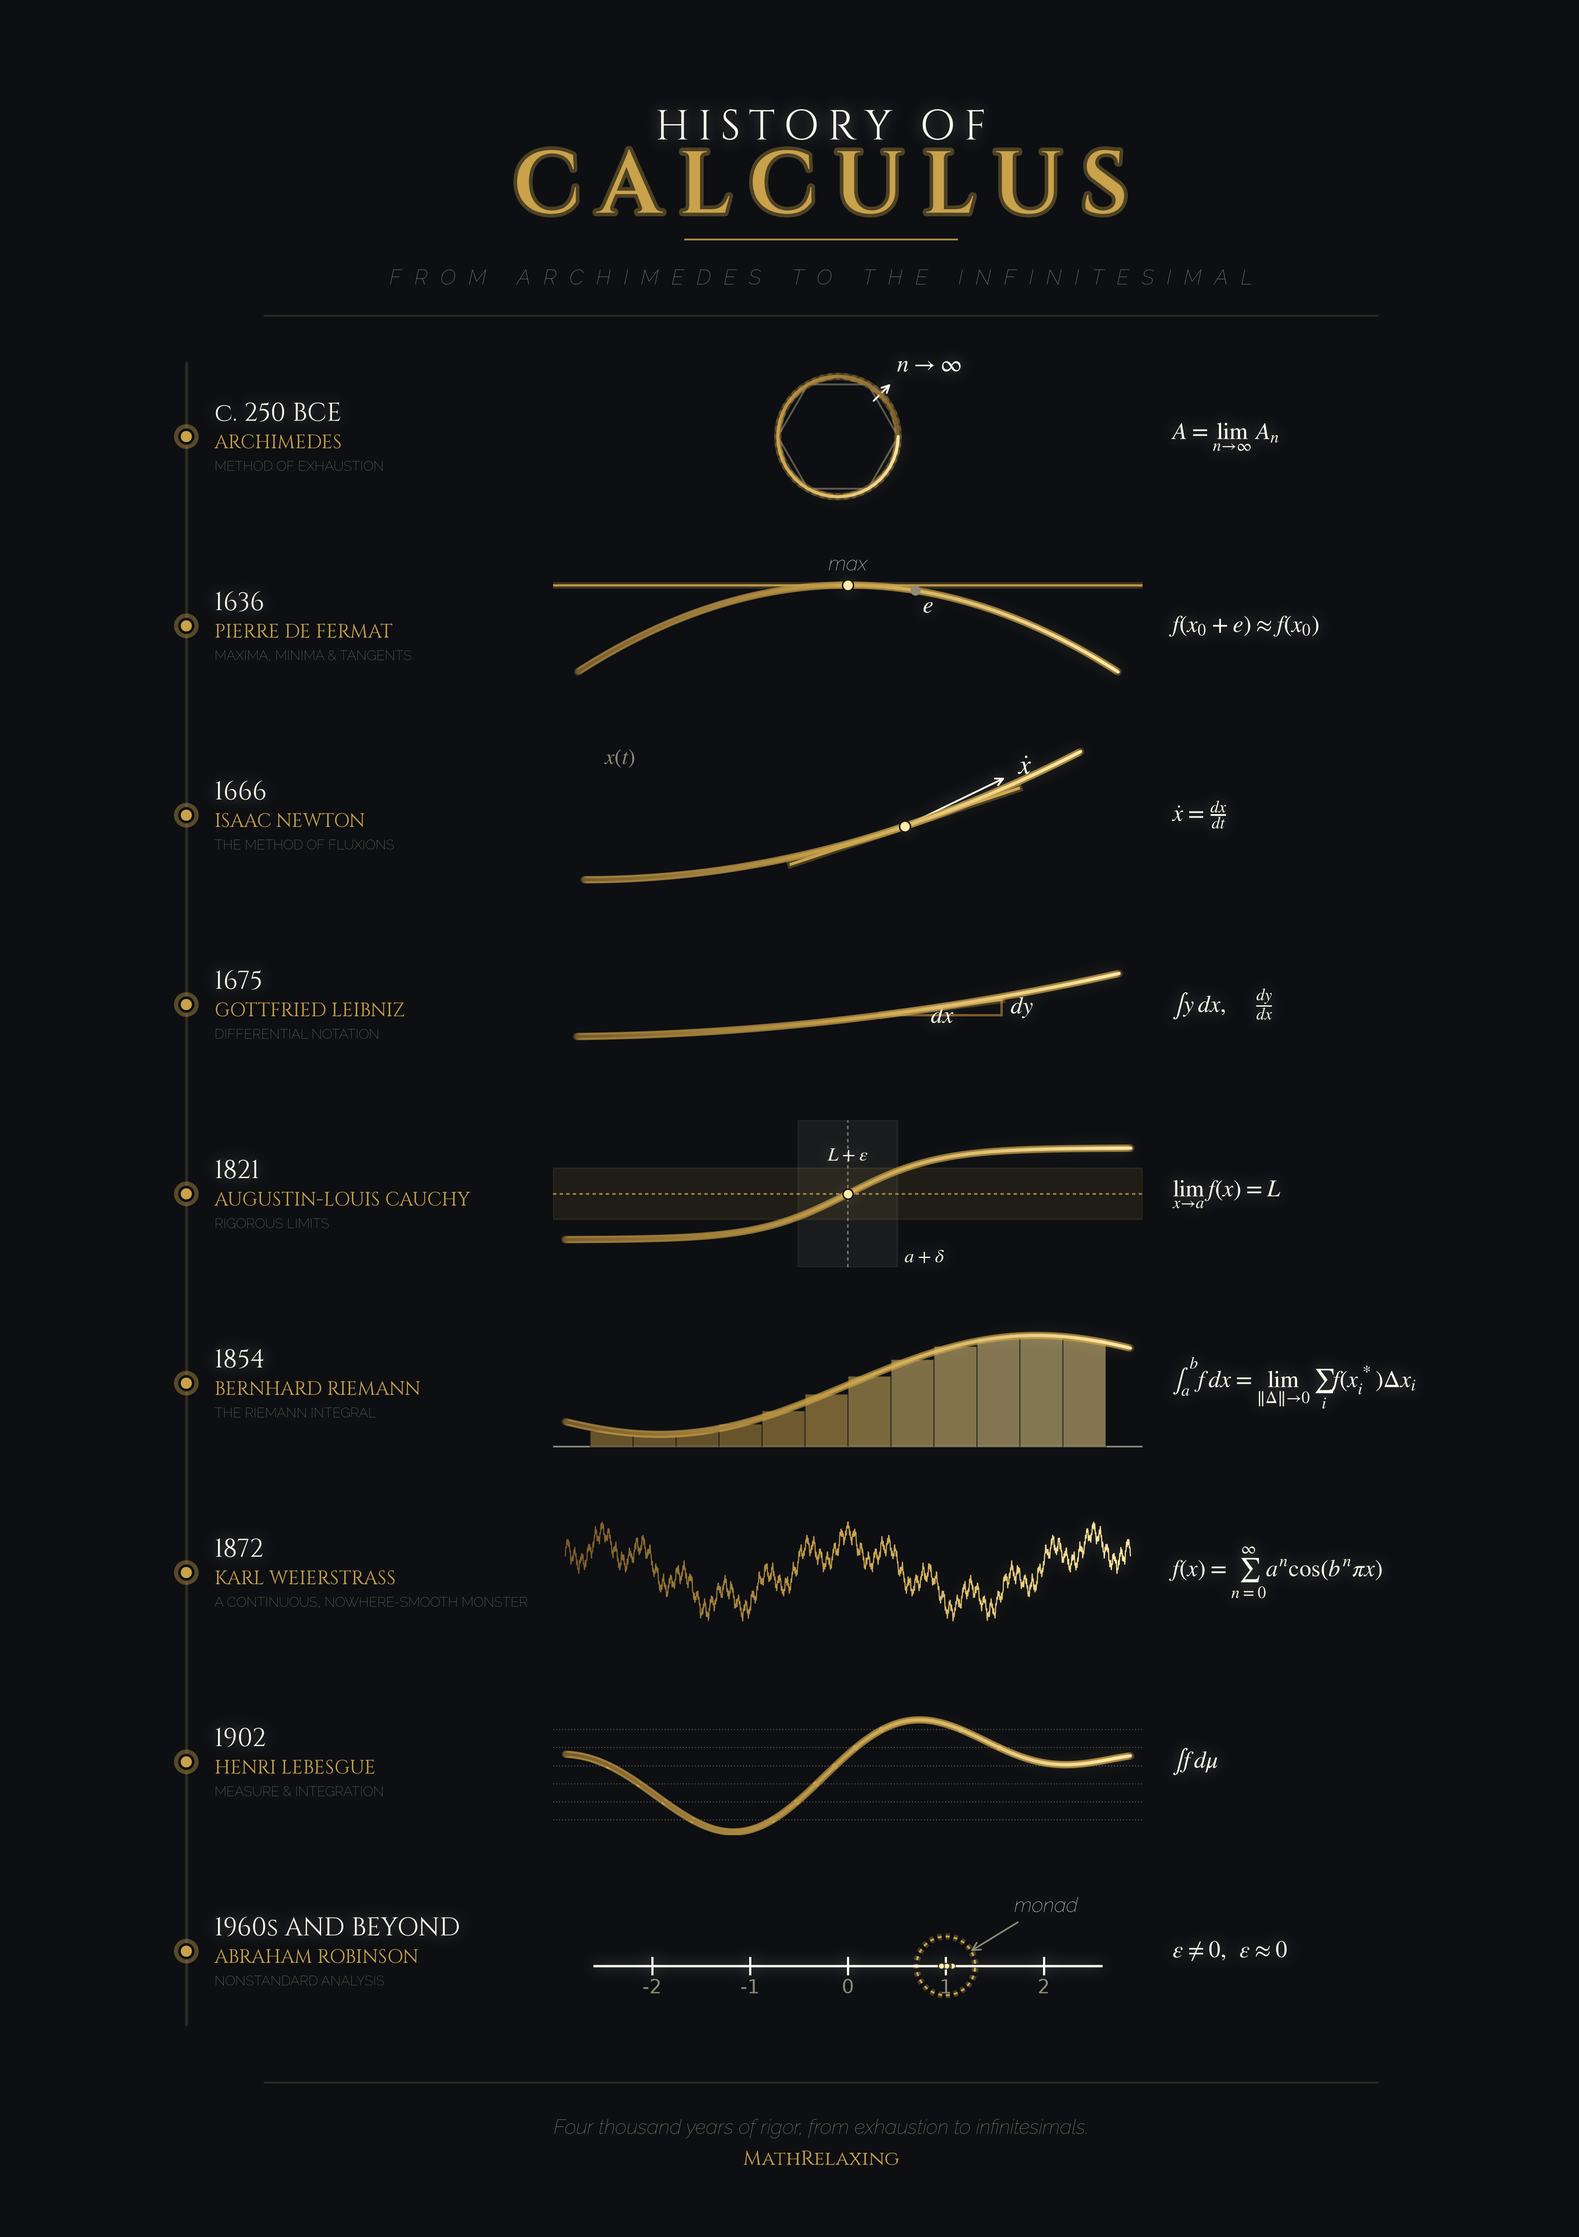
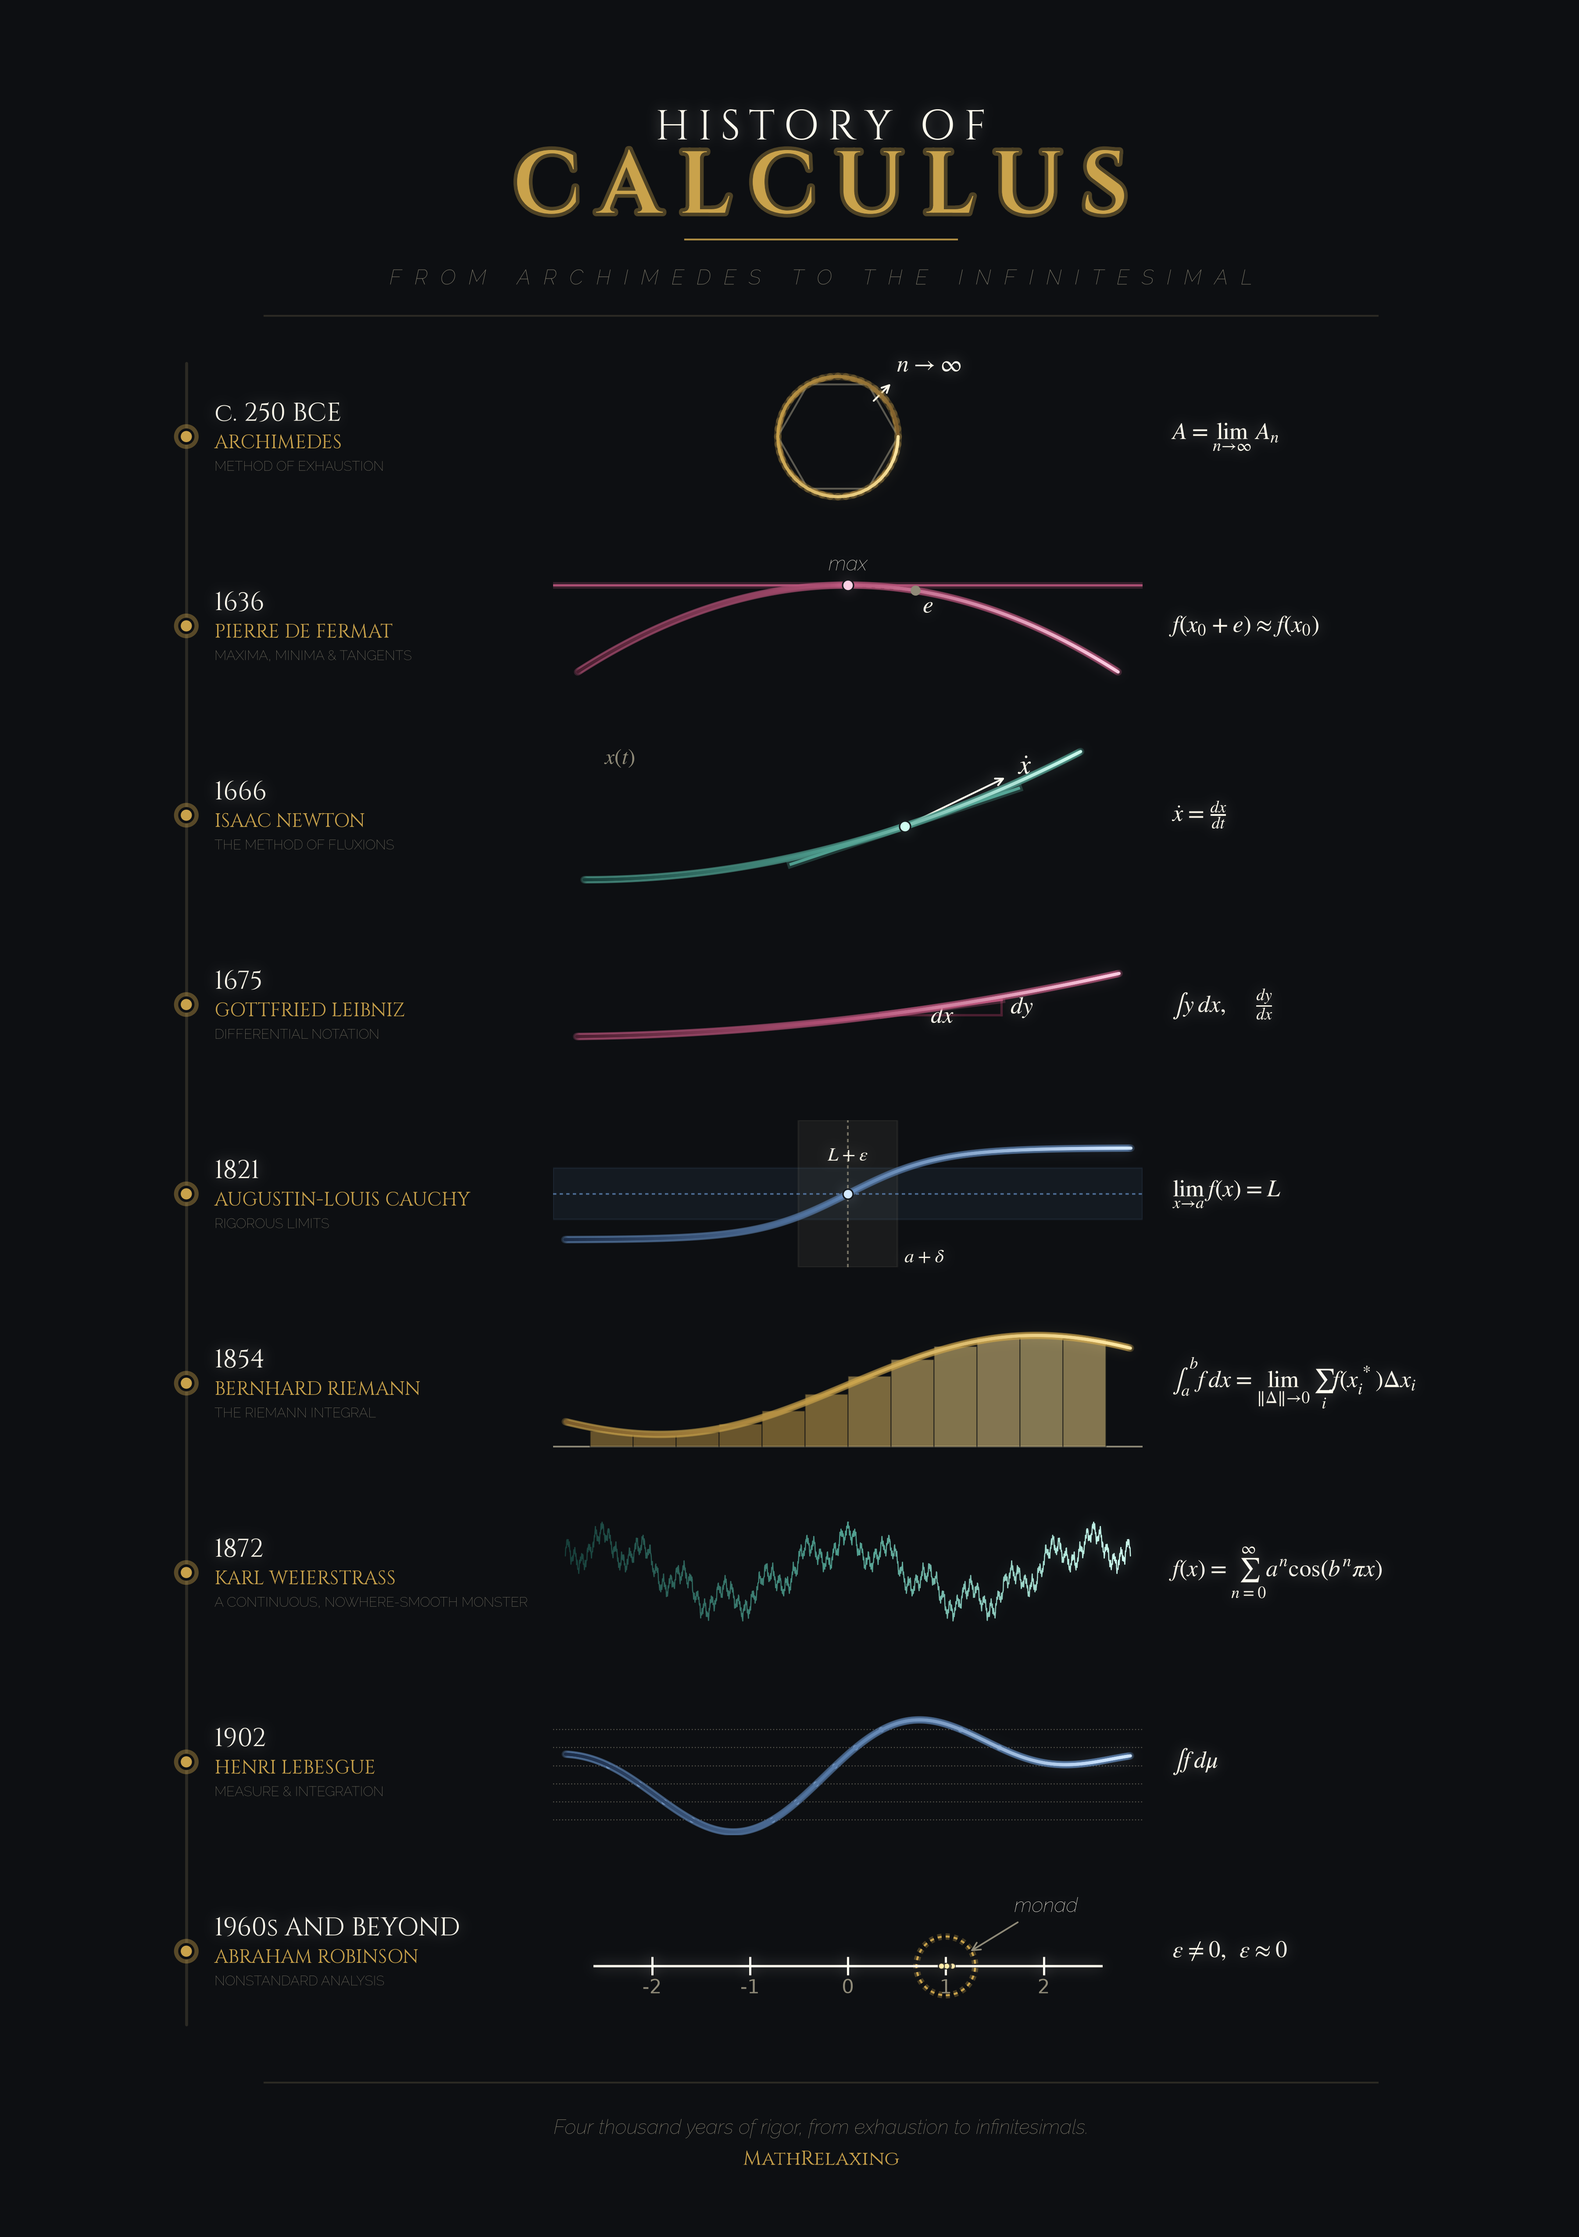
Vary diagram accent colors per milestone in the History of Calculus poster
All nine diagrams were gold-on-gold; added rose, teal and blue gradient
palettes (PALETTES dict) alongside gold, keyed per milestone so no two
adjacent rows repeat, while title/timeline/names stay gold for cohesion.
Each draw_* function now takes a pal argument instead of hardcoding
GOLD/GOLD_HI/BRONZE.

Note: this regenerates the master preview PNG only -- the print exports,
zip, and live Etsy draft (4549027221) still reflect the previous
all-gold version pending sign-off on this look.

Claude-Session: https://claude.ai/code/session_01H2HkvfGi1sYBsuUMaK5vgt

diff --git a/generate_history_poster.py b/generate_history_poster.py
@@ -45,6 +45,18 @@ plt.rcParams.update({"mathtext.fontset": "stix", "axes.unicode_minus": False})
 
 GOLD_CMAP = LinearSegmentedColormap.from_list("gold", [BRONZE, GOLD, GOLD_HI])
 
+# Per-milestone accent palettes -- structural elements (title, timeline, names)
+# stay gold throughout; only the diagram linework varies row to row.
+PALETTES = {
+    "gold": dict(cmap=GOLD_CMAP, mid=GOLD, hi=GOLD_HI, deep=BRONZE),
+    "rose": dict(cmap=LinearSegmentedColormap.from_list("rose", ["#4a1f30", "#b8547a", "#f0c4d8"]),
+                 mid="#b8547a", hi="#f0c4d8", deep="#4a1f30"),
+    "teal": dict(cmap=LinearSegmentedColormap.from_list("teal", ["#173f3a", "#4f9e8f", "#c3ede2"]),
+                 mid="#4f9e8f", hi="#c3ede2", deep="#173f3a"),
+    "blue": dict(cmap=LinearSegmentedColormap.from_list("blue", ["#1c2c47", "#5a7fae", "#c8ddf5"]),
+                 mid="#5a7fae", hi="#c8ddf5", deep="#1c2c47"),
+}
+
 W, H = 12.0, 17.0
 DPI = 300
 
@@ -57,54 +69,54 @@ def tracked(s, thin=1):
     return (" " * thin).join(s)
 
 
-def grad_line(ax, x, y, cmap=GOLD_CMAP, lw=1.9, alpha=1.0, zorder=4, glow=True):
+def grad_line(ax, x, y, cmap=GOLD_CMAP, lw=1.9, alpha=1.0, zorder=4, glow=True, glow_color=None):
     pts = np.array([x, y]).T.reshape(-1, 1, 2)
     segs = np.concatenate([pts[:-1], pts[1:]], axis=1)
     lc = LineCollection(segs, cmap=cmap, alpha=alpha, linewidths=lw, zorder=zorder,
                          capstyle="round")
     lc.set_array(np.linspace(0, 1, len(x)))
     if glow:
-        lc.set_path_effects(GLOW(lw=lw, c=GOLD, a=0.25))
+        lc.set_path_effects(GLOW(lw=lw, c=glow_color or GOLD, a=0.25))
     ax.add_collection(lc)
 
 
 # ---------------------------------------------------------------- diagrams
-def draw_archimedes(ax):
+def draw_archimedes(ax, pal=PALETTES["gold"]):
     th = np.linspace(0, 2 * np.pi, 200)
     ax.plot(np.cos(th), np.sin(th), color=SUB, lw=1.0, ls=(0, (1, 2)), alpha=0.7)
-    for n, col, a, lw in [(6, SUB, 0.6, 1.0), (12, BRONZE, 0.85, 1.2)]:
+    for n, col, a, lw in [(6, SUB, 0.6, 1.0), (12, pal["deep"], 0.85, 1.2)]:
         ang = np.linspace(0, 2 * np.pi, n + 1)
         ax.plot(np.cos(ang), np.sin(ang), color=col, lw=lw, alpha=a)
     ang = np.linspace(0, 2 * np.pi, 49)
-    grad_line(ax, np.cos(ang), np.sin(ang), lw=1.7)
+    grad_line(ax, np.cos(ang), np.sin(ang), cmap=pal["cmap"], lw=1.7, glow_color=pal["mid"])
     ax.annotate("", xy=(0.92, 0.92), xytext=(0.55, 0.55),
                 arrowprops=dict(arrowstyle="->", color=CREAM, lw=1.0))
     ax.text(0.98, 0.98, r"$n\to\infty$", fontsize=13, color=CREAM, ha="left", va="bottom")
     ax.set_xlim(-1.22, 1.55); ax.set_ylim(-1.22, 1.22); ax.set_aspect("equal"); ax.axis("off")
 
 
-def draw_fermat(ax):
+def draw_fermat(ax, pal=PALETTES["gold"]):
     x = np.linspace(-2.2, 2.2, 400)
     y = -0.22 * x**2 + 1.1
-    grad_line(ax, x, y, lw=1.7)
-    ax.axhline(1.1, color=GOLD, lw=1.2, alpha=0.9, path_effects=GLOW(lw=1.2, a=0.25))
+    grad_line(ax, x, y, cmap=pal["cmap"], lw=1.7, glow_color=pal["mid"])
+    ax.axhline(1.1, color=pal["mid"], lw=1.2, alpha=0.9, path_effects=GLOW(lw=1.2, c=pal["mid"], a=0.25))
     e = 0.55
     ax.plot([0, e], [1.1, 1.1 - 0.22 * e**2], color=SUB, lw=1.0, ls=(0, (3, 2)))
-    ax.plot([0], [1.1], "o", color=GOLD_HI, ms=6, zorder=5, mec=DARK, mew=0.8)
+    ax.plot([0], [1.1], "o", color=pal["hi"], ms=6, zorder=5, mec=DARK, mew=0.8)
     ax.plot([e], [1.1 - 0.22 * e**2], "o", color=SUB, ms=4.5, zorder=5)
     ax.text(0, 1.28, "max", fontsize=11, color=CREAM, ha="center", fontproperties=RALEWAY_I)
     ax.text(e + 0.06, 1.1 - 0.22 * e**2 - 0.05, "$e$", fontsize=13, color=CREAM, ha="left", va="top")
     ax.set_xlim(-2.4, 2.4); ax.set_ylim(-0.3, 1.5); ax.axis("off")
 
 
-def draw_newton(ax):
+def draw_newton(ax, pal=PALETTES["gold"]):
     t = np.linspace(0, 2.4, 400)
     x = 0.5 * t**2
-    grad_line(ax, t, x, lw=1.7)
+    grad_line(ax, t, x, cmap=pal["cmap"], lw=1.7, glow_color=pal["mid"])
     t0 = 1.55; x0 = 0.5 * t0**2; slope = t0
     tt = np.linspace(t0 - 0.55, t0 + 0.55, 2)
-    ax.plot(tt, x0 + slope * (tt - t0), color=GOLD, lw=1.6, path_effects=GLOW())
-    ax.plot([t0], [x0], "o", color=GOLD_HI, ms=6, zorder=5, mec=DARK, mew=0.8)
+    ax.plot(tt, x0 + slope * (tt - t0), color=pal["mid"], lw=1.6, path_effects=GLOW(c=pal["mid"]))
+    ax.plot([t0], [x0], "o", color=pal["hi"], ms=6, zorder=5, mec=DARK, mew=0.8)
     ax.annotate("", xy=(t0 + 0.5, x0 + slope * 0.5 + 0.35), xytext=(t0, x0),
                 arrowprops=dict(arrowstyle="->", color=CREAM, lw=1.0))
     ax.text(t0 + 0.55, x0 + slope * 0.5 + 0.4, r"$\dot{x}$", fontsize=15, color=CREAM)
@@ -112,65 +124,65 @@ def draw_newton(ax):
     ax.set_xlim(-0.15, 2.7); ax.set_ylim(-0.2, 3.1); ax.axis("off")
 
 
-def draw_leibniz(ax):
+def draw_leibniz(ax, pal=PALETTES["gold"]):
     x = np.linspace(-2.3, 2.3, 400)
     y = 0.28 * x + 0.055 * x**2 + 0.6
-    grad_line(ax, x, y, lw=1.7)
+    grad_line(ax, x, y, cmap=pal["cmap"], lw=1.7, glow_color=pal["mid"])
     x0 = 0.3; y0 = 0.28 * x0 + 0.055 * x0**2 + 0.6
     dx, dy = 1.0, 0.28 * 1.0 + 0.055 * (2 * x0 * 1.0)
-    ax.plot([x0, x0 + dx], [y0, y0], color=BRONZE, lw=1.3)
-    ax.plot([x0 + dx, x0 + dx], [y0, y0 + dy], color=BRONZE, lw=1.3)
-    ax.plot([x0, x0 + dx], [y0, y0 + dy], color=GOLD, lw=1.7, path_effects=GLOW())
+    ax.plot([x0, x0 + dx], [y0, y0], color=pal["deep"], lw=1.3)
+    ax.plot([x0 + dx, x0 + dx], [y0, y0 + dy], color=pal["deep"], lw=1.3)
+    ax.plot([x0, x0 + dx], [y0, y0 + dy], color=pal["mid"], lw=1.7, path_effects=GLOW(c=pal["mid"]))
     ax.text(x0 + dx / 2, y0 - 0.16, "$dx$", fontsize=13, color=CREAM, ha="center")
     ax.text(x0 + dx + 0.08, y0 + dy / 2, "$dy$", fontsize=13, color=CREAM, va="center")
     ax.set_xlim(-2.5, 2.5); ax.set_ylim(-0.6, 2.4); ax.axis("off")
 
 
-def draw_cauchy(ax):
+def draw_cauchy(ax, pal=PALETTES["gold"]):
     x = np.linspace(-2.4, 2.4, 400)
     y = 0.5 * np.tanh(1.3 * x) + 1.1
-    grad_line(ax, x, y, lw=1.7)
+    grad_line(ax, x, y, cmap=pal["cmap"], lw=1.7, glow_color=pal["mid"])
     a, L = 0.0, 1.1
     eps, delta = 0.28, 0.42
-    ax.axhspan(L - eps, L + eps, color=GOLD, alpha=0.10)
+    ax.axhspan(L - eps, L + eps, color=pal["mid"], alpha=0.10)
     ax.axvspan(a - delta, a + delta, color=SUB, alpha=0.10)
-    ax.axhline(L, color=GOLD, lw=0.9, ls=(0, (2, 2)), alpha=0.8)
+    ax.axhline(L, color=pal["mid"], lw=0.9, ls=(0, (2, 2)), alpha=0.8)
     ax.axvline(a, color=SUB, lw=0.9, ls=(0, (2, 2)), alpha=0.8)
-    ax.plot([a], [L], "o", color=GOLD_HI, ms=5.5, zorder=5, mec=DARK, mew=0.8)
+    ax.plot([a], [L], "o", color=pal["hi"], ms=5.5, zorder=5, mec=DARK, mew=0.8)
     ax.text(a, L + eps + 0.08, r"$L+\varepsilon$", fontsize=10.5, color=CREAM, ha="center")
     ax.text(a + delta + 0.06, 0.35, r"$a+\delta$", fontsize=10.5, color=CREAM)
     ax.set_xlim(-2.5, 2.5); ax.set_ylim(0.3, 1.9); ax.axis("off")
 
 
-def draw_riemann(ax):
+def draw_riemann(ax, pal=PALETTES["gold"]):
     f = lambda x: 0.9 + 0.55 * np.sin(1.15 * x) + 0.12 * x
     x = np.linspace(-2.3, 2.3, 400)
-    grad_line(ax, x, f(x), lw=1.7, zorder=6)
+    grad_line(ax, x, f(x), cmap=pal["cmap"], lw=1.7, zorder=6, glow_color=pal["mid"])
     edges = np.linspace(-2.1, 2.1, 13)
     hmax = max(f((edges[i] + edges[i + 1]) / 2) for i in range(len(edges) - 1))
     for i in range(len(edges) - 1):
         xm = (edges[i] + edges[i + 1]) / 2
         h = f(xm)
-        col = GOLD_CMAP(0.25 + 0.6 * h / hmax)
+        col = pal["cmap"](0.25 + 0.6 * h / hmax)
         ax.add_patch(Rectangle((edges[i], 0), edges[i + 1] - edges[i], h,
                                 facecolor=col, edgecolor=DARK, lw=0.6, alpha=0.55, zorder=3))
     ax.axhline(0, color=SUB, lw=0.9)
     ax.set_xlim(-2.4, 2.4); ax.set_ylim(-0.15, 2.0); ax.axis("off")
 
 
-def draw_weierstrass(ax):
+def draw_weierstrass(ax, pal=PALETTES["gold"]):
     x = np.linspace(-2.3, 2.3, 1600)
     a, b, N = 0.5, 6.0, 7
     y = sum(a**n * np.cos(b**n * np.pi * x) for n in range(N))
     y = 0.55 * y / np.max(np.abs(y)) + 1.0
-    grad_line(ax, x, y, lw=0.6, glow=False)
+    grad_line(ax, x, y, cmap=pal["cmap"], lw=0.6, glow=False)
     ax.set_xlim(-2.4, 2.4); ax.set_ylim(0.2, 1.8); ax.axis("off")
 
 
-def draw_lebesgue(ax):
+def draw_lebesgue(ax, pal=PALETTES["gold"]):
     f = lambda x: 1.0 + 0.5 * np.sin(1.3 * x) + 0.35 * np.sin(2.6 * x + 0.6)
     x = np.linspace(-2.3, 2.3, 500)
-    grad_line(ax, x, f(x), lw=1.7, zorder=6)
+    grad_line(ax, x, f(x), cmap=pal["cmap"], lw=1.7, zorder=6, glow_color=pal["mid"])
     levels = np.linspace(0.35, 1.75, 7)
     for lv in levels:
         idx = np.where(np.diff(np.sign(f(x) - lv)))[0]
@@ -178,21 +190,21 @@ def draw_lebesgue(ax):
             continue
         ax.axhline(lv, color=SUB, lw=0.55, ls=(0, (1, 2)), zorder=1, alpha=0.6)
         for xi in x[idx]:
-            ax.plot([xi], [lv], "o", color=GOLD_HI, ms=3.4, zorder=5, mec=DARK, mew=0.5)
+            ax.plot([xi], [lv], "o", color=pal["hi"], ms=3.4, zorder=5, mec=DARK, mew=0.5)
     ax.set_xlim(-2.4, 2.4); ax.set_ylim(0.15, 2.05); ax.axis("off")
 
 
-def draw_robinson(ax):
+def draw_robinson(ax, pal=PALETTES["gold"]):
     ax.axhline(0, color=CREAM, lw=1.3)
     for x in [-2, -1, 0, 1, 2]:
         ax.plot([x], [0], "|", color=CREAM, ms=10, mew=1.2)
         ax.text(x, -0.28, str(x), fontsize=10.5, color=SUB, ha="center")
-    circ = Circle((1, 0), 0.3, facecolor="none", edgecolor=GOLD, lw=1.1, ls=(0, (2, 2)),
-                  path_effects=GLOW(lw=1.1, a=0.3))
+    circ = Circle((1, 0), 0.3, facecolor="none", edgecolor=pal["mid"], lw=1.1, ls=(0, (2, 2)),
+                  path_effects=GLOW(lw=1.1, c=pal["mid"], a=0.3))
     ax.add_patch(circ)
     rng = np.random.default_rng(7)
     pts = 1 + rng.normal(0, 0.05, 14)
-    ax.plot(pts, np.zeros_like(pts), "o", color=GOLD_HI, ms=3.2, alpha=0.9, zorder=5, mec=DARK, mew=0.4)
+    ax.plot(pts, np.zeros_like(pts), "o", color=pal["hi"], ms=3.2, alpha=0.9, zorder=5, mec=DARK, mew=0.4)
     ax.annotate("monad", xy=(1.22, 0.13), xytext=(1.7, 0.55),
                 arrowprops=dict(arrowstyle="->", color=SUB, lw=0.9),
                 fontsize=11, color=CREAM, fontproperties=RALEWAY_I)
@@ -201,23 +213,23 @@ def draw_robinson(ax):
 
 MILESTONES = [
     ("c. 250 BCE", "ARCHIMEDES", "METHOD OF EXHAUSTION",
-     r"$A=\lim_{n\to\infty}A_n$", draw_archimedes),
+     r"$A=\lim_{n\to\infty}A_n$", "gold", draw_archimedes),
     ("1636", "PIERRE DE FERMAT", "MAXIMA, MINIMA & TANGENTS",
-     r"$f(x_0+e)\approx f(x_0)$", draw_fermat),
+     r"$f(x_0+e)\approx f(x_0)$", "rose", draw_fermat),
     ("1666", "ISAAC NEWTON", "THE METHOD OF FLUXIONS",
-     r"$\dot{x}=\frac{dx}{dt}$", draw_newton),
+     r"$\dot{x}=\frac{dx}{dt}$", "teal", draw_newton),
     ("1675", "GOTTFRIED LEIBNIZ", "DIFFERENTIAL NOTATION",
-     r"$\int y\,dx,\quad \frac{dy}{dx}$", draw_leibniz),
+     r"$\int y\,dx,\quad \frac{dy}{dx}$", "rose", draw_leibniz),
     ("1821", "AUGUSTIN-LOUIS CAUCHY", "RIGOROUS LIMITS",
-     r"$\lim_{x\to a}f(x)=L$", draw_cauchy),
+     r"$\lim_{x\to a}f(x)=L$", "blue", draw_cauchy),
     ("1854", "BERNHARD RIEMANN", "THE RIEMANN INTEGRAL",
-     r"$\int_a^b f\,dx=\lim_{\|\Delta\|\to0}\sum_i f(x_i^*)\Delta x_i$", draw_riemann),
+     r"$\int_a^b f\,dx=\lim_{\|\Delta\|\to0}\sum_i f(x_i^*)\Delta x_i$", "gold", draw_riemann),
     ("1872", "KARL WEIERSTRASS", "A CONTINUOUS, NOWHERE-SMOOTH MONSTER",
-     r"$f(x)=\sum_{n=0}^{\infty}a^n\cos(b^n\pi x)$", draw_weierstrass),
+     r"$f(x)=\sum_{n=0}^{\infty}a^n\cos(b^n\pi x)$", "teal", draw_weierstrass),
     ("1902", "HENRI LEBESGUE", "MEASURE & INTEGRATION",
-     r"$\int f\,d\mu$", draw_lebesgue),
+     r"$\int f\,d\mu$", "blue", draw_lebesgue),
     ("1960s AND BEYOND", "ABRAHAM ROBINSON", "NONSTANDARD ANALYSIS",
-     r"$\varepsilon\neq0,\ \varepsilon\approx0$", draw_robinson),
+     r"$\varepsilon\neq0,\ \varepsilon\approx0$", "gold", draw_robinson),
 ]
 
 
@@ -244,7 +256,7 @@ def build():
     ax_title.plot([0.09, 0.91], [0.02, 0.02], color=LINE, lw=1.0)
     ax_title.set_xlim(0, 1); ax_title.set_ylim(0, 1)
 
-    for i, (year, name, label, eq, drawfn) in enumerate(MILESTONES):
+    for i, (year, name, label, eq, palkey, drawfn) in enumerate(MILESTONES):
         r = i + 1
         ax_txt = fig.add_subplot(gs[r, 0]); ax_txt.axis("off"); ax_txt.set_facecolor(DARK)
         ax_txt.set_xlim(0, 1); ax_txt.set_ylim(0, 1)
@@ -256,7 +268,7 @@ def build():
                     fontproperties=RALEWAY)
 
         ax_d = fig.add_subplot(gs[r, 1]); ax_d.set_facecolor(DARK)
-        drawfn(ax_d)
+        drawfn(ax_d, PALETTES[palkey])
 
         ax_eq = fig.add_subplot(gs[r, 2]); ax_eq.axis("off"); ax_eq.set_facecolor(DARK)
         ax_eq.set_xlim(0, 1); ax_eq.set_ylim(0, 1)
